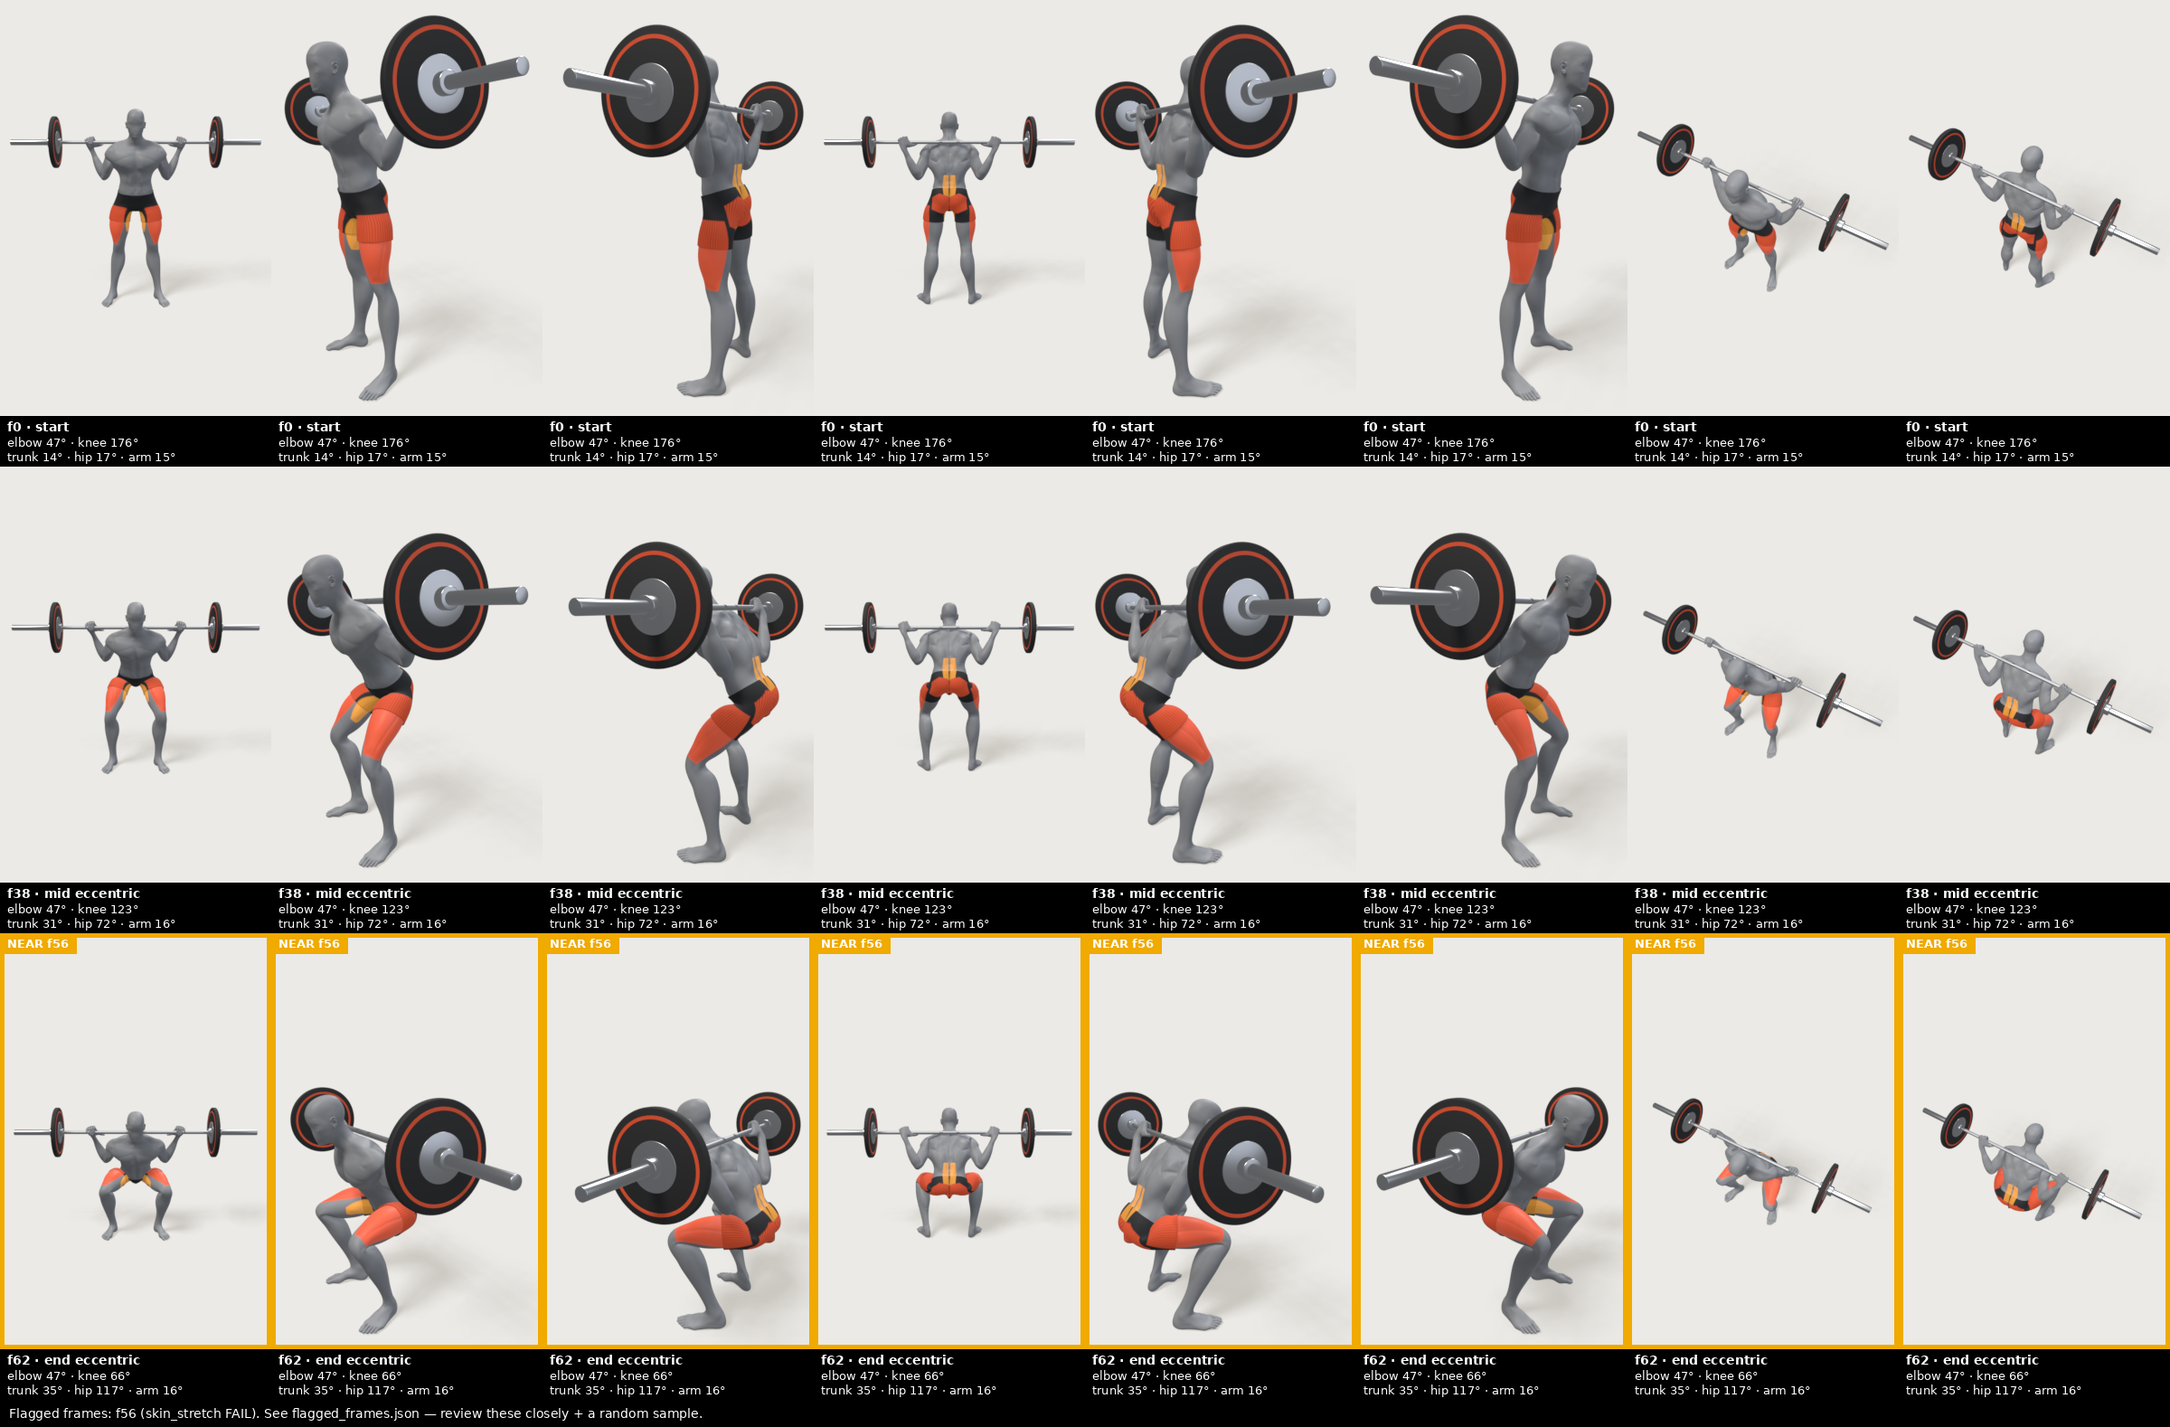
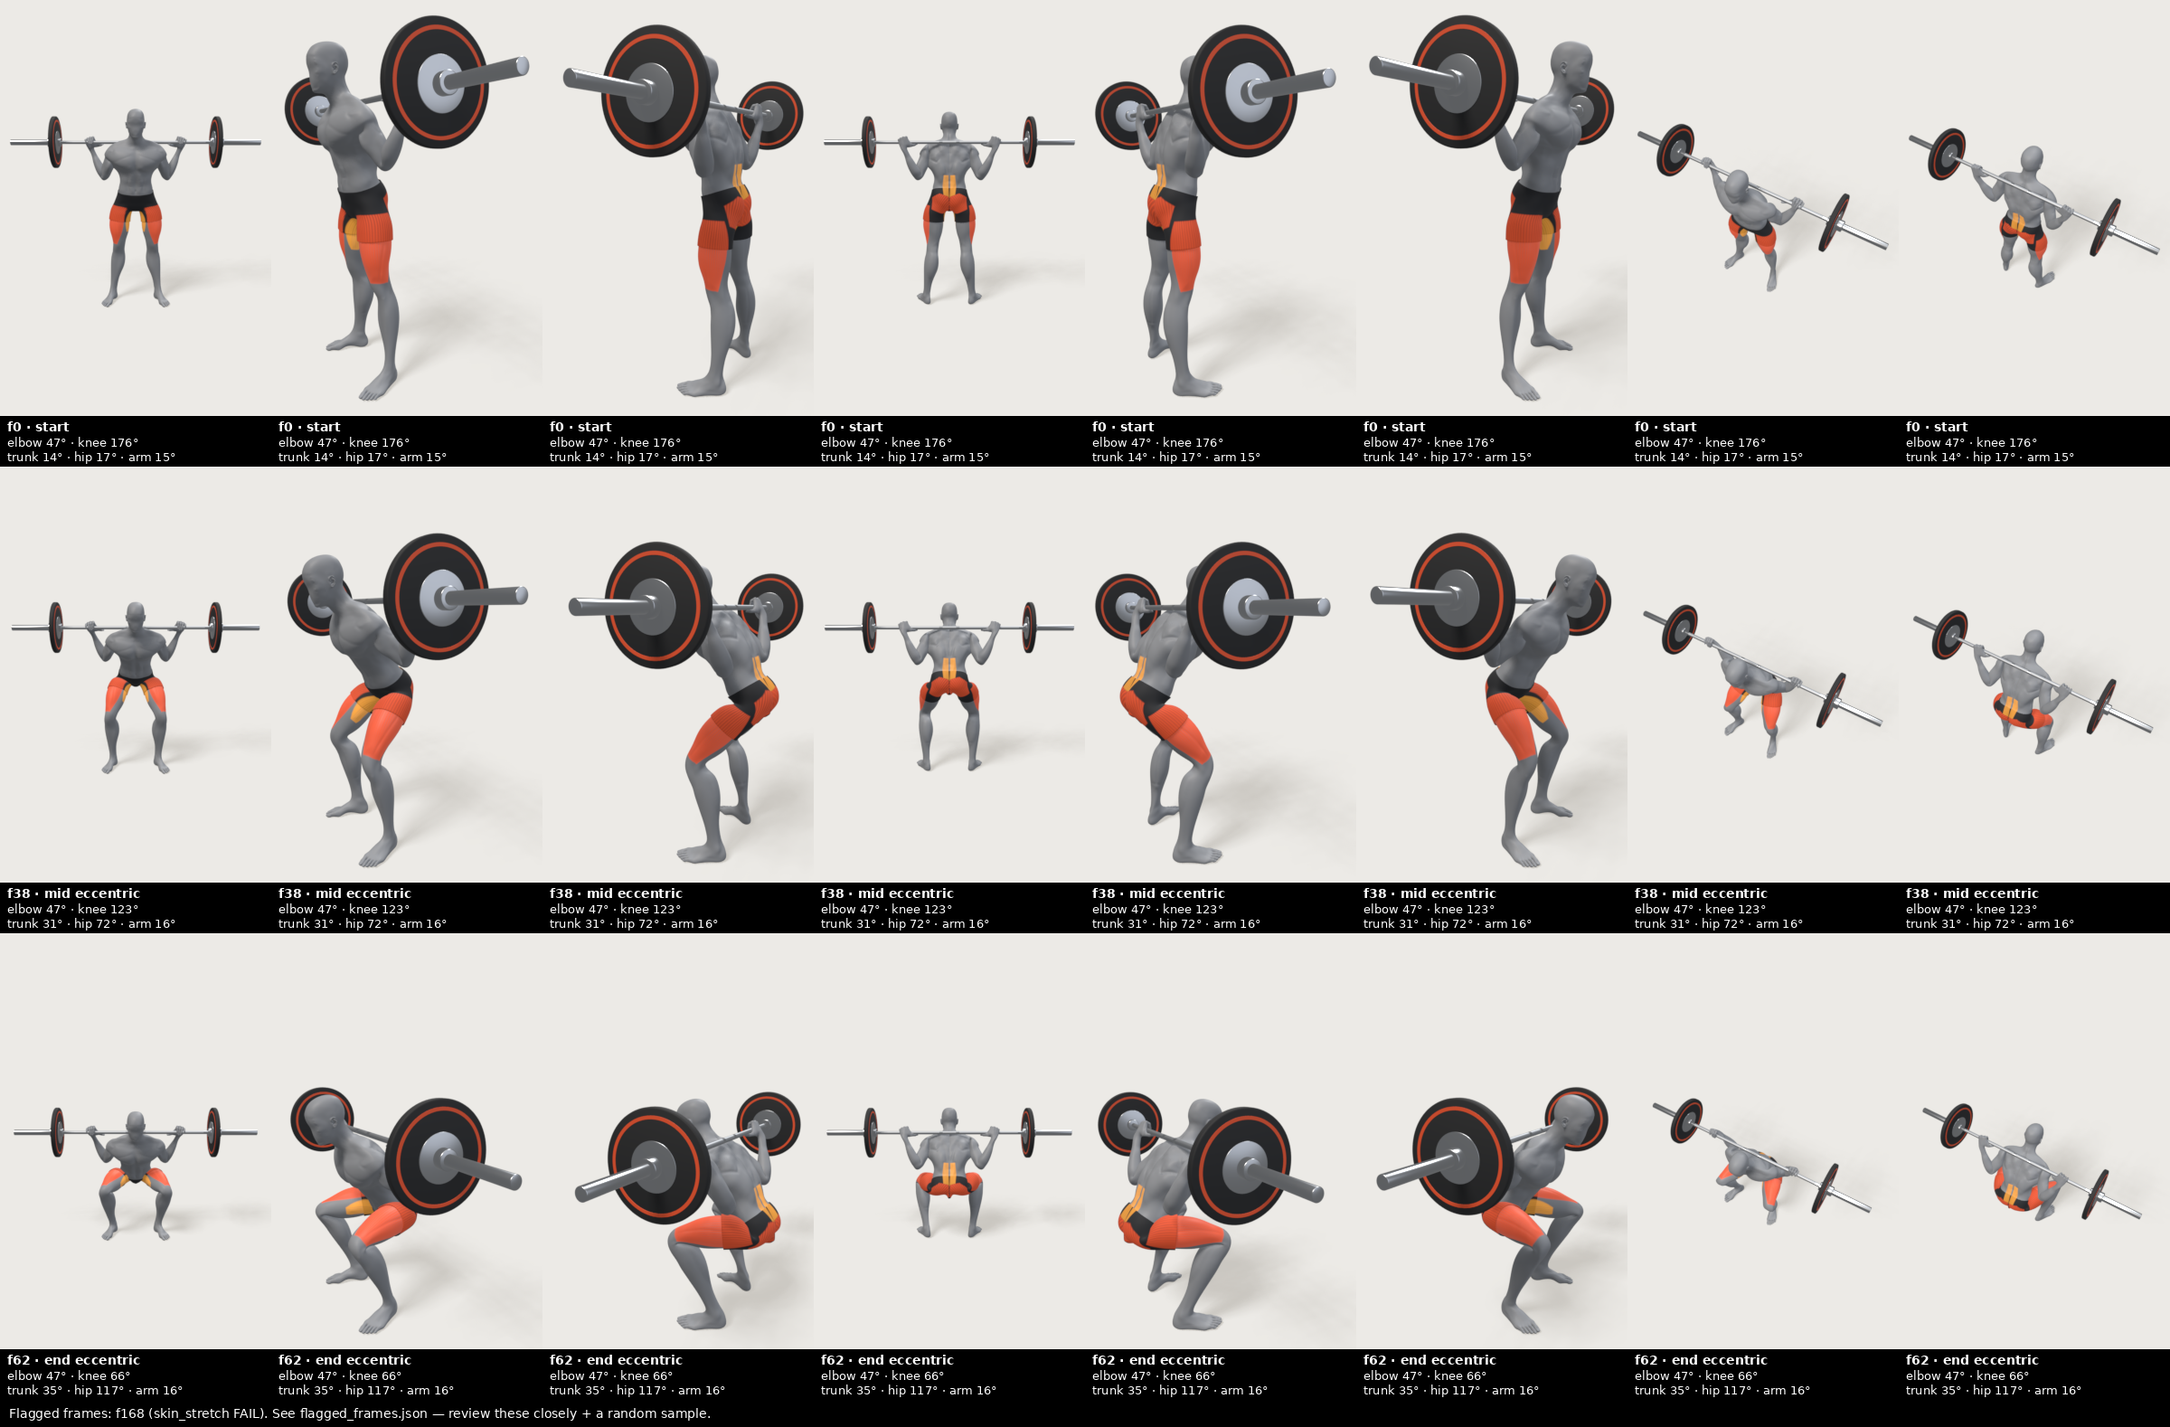
Motion Kit mục 5: kiểm biến dạng da 003 ở tư thế cực + sửa cách đo giãn da (#527)
- validate_motion: đo giãn da thêm khung chậu thấp nhất (đáy squat), ghi số từng khung vào detail; SỬA lỗi đo: tắt Subdivision khi lấy mẫu (đo mesh gốc như sampling.py) — trước đây đo trên mesh chia mịn 44722 đỉnh bằng chỉ số cạnh mesh gốc 11171 đỉnh nên số sai (squat f56: 3,284 thay vì 3,818 đúng); khôi phục cờ sau khi đo nên kiểm tra xuyên không đổi.
- validate_animation: thêm khung lockout (cuối concentric, f180) vào deformation_frames; checks.py ghi số từng khung (p999/max/volume, số giao nhau) vào detail.
- 4 unit test cho báo cáo từng khung.
- Kết quả đo (ngưỡng p999 2,6, KHÔNG nới): squat đứng 3,039, đáy rep1 3,818, đáy rep2 3,820 FAIL; bench mọi khung 2,829 FAIL (kể cả lockout), thể tích trong ngưỡng; curl 2,175 PASS. Probe: cạnh giãn nhất ở nếp gấp háng (chậu/đùi, dài gốc 4-10 mm, không suy biến), tối đa 12,2 lần; ngón cái/cổ tay ~5 lần. Da CHƯA sửa (cần sửa rig/trọng số) — 2 dòng sổ lỗi.
- Render lại sheet squat theo khung flag mới (f168).

Changed region(s): [[0.0, 0.9316, 1.0, 0.9937], [0.0, 0.6521, 1.0, 0.6831]]

diff --git a/artifacts/exercise-visual-system/pipeline/validate_motion.py b/artifacts/exercise-visual-system/pipeline/validate_motion.py
@@ -78,13 +78,25 @@ def main() -> None:
             feet[k].append(list(mw @ rig.pose.bones[k].head))
     j = {k: np.array(v) for k, v in joints.items()}
 
-    # Skin stretch at start, quarter, half (mesh evaluation is slow).
+    # Skin stretch at start, quarter, half, and the deepest pelvis frame
+    # (the extreme pose: the squat bottom). Mesh evaluation is slow, so only
+    # these frames are measured; per-frame values go into the record detail.
+    # Measure the skinned BASE mesh, like evs/sampling.py: with Subdivision
+    # on, the evaluated mesh has more vertices than the rest mesh (44722 vs
+    # 11171 on character 003), so rest edge indices do not address the same
+    # vertices (14/11 probe: planted feet showed up among the worst edges).
+    # The flags are restored right after sampling so the penetration check
+    # below still sees the subdivided surface.
+    low = int(np.argmin(j["pelvis"][:, 2]))
+    subsurf = [(m, m.show_viewport) for m in body.modifiers if m.type == "SUBSURF"]
+    for m, _ in subsurf:
+        m.show_viewport = False
     rest = body.data
     edges = np.array([e.vertices[:] for e in rest.edges])
     co0 = np.array([v.co[:] for v in rest.vertices])
     rl = np.linalg.norm(co0[edges[:, 0]] - co0[edges[:, 1]], axis=1)
     stretch = []
-    for f in (frames[0], frames[len(frames) // 4], frames[len(frames) // 2]):
+    for f in sorted({frames[0], frames[len(frames) // 4], frames[len(frames) // 2], frames[low]}):
         scene.frame_set(f)
         ev = body.evaluated_get(bpy.context.evaluated_depsgraph_get())
         me = ev.to_mesh()
@@ -93,6 +105,9 @@ def main() -> None:
         r = np.linalg.norm(co[edges[:, 0]] - co[edges[:, 1]], axis=1) / rl
         stretch.append((float(np.percentile(r, 99.9)), f))
     worst_stretch = max(stretch)
+    stretch_detail = "p99.9 edge stretch per frame: " + ", ".join(f"f{f} {v:.3f}" for v, f in sorted(stretch, key=lambda t: t[1]))
+    for m, visible in subsurf:
+        m.show_viewport = visible
 
     # Implement inside the skin (bar through the neck/traps, dumbbell through
     # the thigh): body vertices behind the nearest implement face, at the
@@ -101,7 +116,6 @@ def main() -> None:
     from mathutils.bvhtree import BVHTree
     ids = [e["id"].capitalize() for e in ex.get("equipment", []) if not any(k in e["id"] for k in ("bench", "rack", "machine"))]
     implements = [o for o in scene.objects if o.type == "MESH" and any(o.name.startswith(i) for i in ids)]
-    low = int(np.argmin(j["pelvis"][:, 2]))
     depths = {o.name: [] for o in implements}
     for f in sorted({stretch_f for _s, stretch_f in stretch} | {frames[low]}):
         scene.frame_set(f)
@@ -142,7 +156,7 @@ def main() -> None:
         Q.penetration(depths, prof["max_implement_penetration_m"]) if depths else Q.rec("implement_penetration", "C", "Implements do not pass through the body", Q.NOT_TESTED),
         *Q.posture(j, prof),
         Q.rec("skin_stretch", "C", "Skin stretch stays within limits", Q.PASS if worst_stretch[0] <= prof["max_p999_edge_stretch"] else Q.FAIL,
-              round(worst_stretch[0], 3), prof["max_p999_edge_stretch"], {"frame": worst_stretch[1]}, "p99.9 edge stretch"),
+              round(worst_stretch[0], 3), prof["max_p999_edge_stretch"], {"frame": worst_stretch[1]}, stretch_detail),
     ]
     movement = ex.get("movement", {})
     jr = j

diff --git a/artifacts/exercise-visual-system/tests/test_validation_checks.py b/artifacts/exercise-visual-system/tests/test_validation_checks.py
@@ -1,0 +1,67 @@
+"""Unit tests for the per-frame deformation reporting in
+evs/validation/checks.py (skin_deformation / mesh_self_intersection).
+
+No Blender.
+
+    cd artifacts/exercise-visual-system && python3 -m unittest discover -s tests -v
+"""
+
+from __future__ import annotations
+
+import sys
+import unittest
+from pathlib import Path
+
+ROOT = Path(__file__).resolve().parent.parent
+sys.path.insert(0, str(ROOT))
+
+from evs.validation import checks  # noqa: E402
+
+FACTS = {"bones": {"pelvis": {"parent": None, "length_m": 0.1}}, "vertices": 10}
+PROFILE = {"max_p999_edge_stretch": 2.6, "max_volume_change": 0.08, "max_new_self_intersections": 60}
+
+
+def _samples(deformation: dict) -> dict:
+    return {"constants": {"deform_bones": ["pelvis"], "parents": {"pelvis": None},
+                          "rest_bone_length_m": {"pelvis": 0.1}, "body_vertices": 10},
+            "bone_length_error_m": [0.0], "deformation": deformation}
+
+
+def _by_id(records: list[dict], cid: str) -> dict:
+    return next(r for r in records if r["id"] == cid)
+
+
+class DeformationReportTests(unittest.TestCase):
+    def test_skin_deformation_detail_lists_per_frame_values(self):
+        samples = _samples({
+            "0": {"p999_edge_stretch": 1.02, "max_edge_stretch": 1.31, "volume_change": 0.0012, "new_self_intersections": 3},
+            "120": {"p999_edge_stretch": 2.829, "max_edge_stretch": 5.12, "volume_change": 0.0501, "new_self_intersections": 403},
+        })
+        rec = _by_id(checks.character_checks(samples, FACTS, PROFILE, None), "skin_deformation")
+        self.assertEqual(rec["status"], "FAIL")
+        self.assertIn("f0 p999 1.020 max 1.310 vol +0.0012", rec["detail"])
+        self.assertIn("f120 p999 2.829 max 5.120 vol +0.0501", rec["detail"])
+
+    def test_skin_deformation_passes_within_limits(self):
+        samples = _samples({
+            "0": {"p999_edge_stretch": 1.02, "max_edge_stretch": 1.31, "volume_change": 0.0012, "new_self_intersections": 3},
+        })
+        rec = _by_id(checks.character_checks(samples, FACTS, PROFILE, None), "skin_deformation")
+        self.assertEqual(rec["status"], "PASS")
+
+    def test_self_intersection_detail_lists_per_frame_counts(self):
+        samples = _samples({
+            "0": {"p999_edge_stretch": 1.02, "max_edge_stretch": 1.31, "volume_change": 0.0012, "new_self_intersections": 3},
+            "120": {"p999_edge_stretch": 2.829, "max_edge_stretch": 5.12, "volume_change": 0.0501, "new_self_intersections": 403},
+        })
+        rec = _by_id(checks.character_checks(samples, FACTS, PROFILE, None), "mesh_self_intersection")
+        self.assertEqual(rec["status"], "REQUIRES_MANUAL_REVIEW")
+        self.assertIn("f0 3; f120 403", rec["detail"])
+
+    def test_deformation_not_tested_without_samples(self):
+        rec = _by_id(checks.character_checks(_samples({}), FACTS, PROFILE, None), "skin_deformation")
+        self.assertEqual(rec["status"], "NOT_TESTED")
+
+
+if __name__ == "__main__":
+    unittest.main()

diff --git a/artifacts/exercise-visual-system/evs/validation/checks.py b/artifacts/exercise-visual-system/evs/validation/checks.py
@@ -94,15 +94,24 @@ def character_checks(samples: dict, facts: dict, profile: dict, rig_test: dict |
         p999 = max(d["p999_edge_stretch"] for d in deformation.values())
         volume = max(abs(d["volume_change"]) for d in deformation.values())
         ok = p999 <= profile["max_p999_edge_stretch"] and volume <= profile["max_volume_change"]
+        ordered = sorted(deformation.items(), key=lambda kv: int(kv[0]))
+
+        def _per_frame(d: dict) -> str:
+            text = f"p999 {d['p999_edge_stretch']:.3f}"
+            if "max_edge_stretch" in d:
+                text += f" max {d['max_edge_stretch']:.3f}"
+            return text + f" vol {d['volume_change']:+.4f}"
+
         out.append(record("skin_deformation", "character", "Skin stretch and body volume stay within limits in the exercise poses",
                           PASS if ok else FAIL, measured={"p99.9_edge_stretch": _r(p999, 3), "volume_change": _r(volume, 4)},
                           limit={"p99.9_edge_stretch": profile["max_p999_edge_stretch"], "volume_change": profile["max_volume_change"]},
-                          detail=f"measured at frames {sorted(int(f) for f in deformation)}"))
+                          detail="per frame: " + "; ".join(f"f{int(k)} {_per_frame(d)}" for k, d in ordered)))
         crossing = max(d["new_self_intersections"] for d in deformation.values())
         out.append(record("mesh_self_intersection", "character", "Skin passing through skin (beyond the rest pose)",
                           PASS if crossing <= profile["max_new_self_intersections"] else REQUIRES_MANUAL_REVIEW,
                           measured=crossing, limit=profile["max_new_self_intersections"], unit="face pairs",
-                          detail="Skin folding onto skin at a bent elbow or inside a closed fist is contact, not a defect; a count above the limit needs eyes."))
+                          detail="Skin folding onto skin at a bent elbow or inside a closed fist is contact, not a defect; a count above the limit needs eyes. "
+                                 "New intersections per frame: " + "; ".join(f"f{int(k)} {d['new_self_intersections']}" for k, d in ordered)))
     else:
         out.append(record("skin_deformation", "character", "Skin stretch and body volume in the exercise poses", NOT_TESTED))
         out.append(record("mesh_self_intersection", "character", "Skin passing through skin", NOT_TESTED))

diff --git a/artifacts/exercise-visual-system/pipeline/validate_animation.py b/artifacts/exercise-visual-system/pipeline/validate_animation.py
@@ -48,8 +48,11 @@ def sample_with_blender(exercise_path, exercise) -> tuple[dict, dict]:
         return int(round(seconds * fps))
 
     ecc, con = phase["eccentric"], phase["concentric"]
+    # Extreme poses: setup, eccentric start/mid/end (bottom), concentric mid
+    # and concentric end (lockout). The lockout frame was added 14/11: the
+    # old set never measured the arms-extended pose.
     deformation_frames = sorted({0, frame(ecc["start_s"]), frame(0.5 * (ecc["start_s"] + ecc["end_s"])), frame(ecc["end_s"]),
-                                 frame(0.5 * (con["start_s"] + con["end_s"]))})
+                                 frame(0.5 * (con["start_s"] + con["end_s"])), frame(con["end_s"])})
     inventory = sampling.scene_inventory(scene, exercise)
     samples = sampling.sample_scene(scene, rig, body, bar, exercise, deformation_frames)
     return samples, inventory

diff --git a/docs/exercise-visual-system/MOTION_KIT_LESSONS.md b/docs/exercise-visual-system/MOTION_KIT_LESSONS.md
@@ -35,4 +35,6 @@
 | 14/11 | App: mặt nhân vật thành một mảng phẳng, viền răng cưa | Miếng vá mặt (không mặt) được dựng không có UV: cả 469 mặt dồn về một điểm UV, nên RealityKit không có tiếp tuyến và đổ bóng phẳng. Bản dựng Blender trông bình thường nên không thấy | `sculpt_muscles.py` cấp cho miếng vá một ô UV riêng ở vùng trống của atlas (chiếu phẳng mặt trước); normal map phẳng ở đó | Đọc lại USDZ đã xuất, đếm mặt có UV suy biến (phải bằng 0). Soi trong app, không chỉ trong Blender |
 | 14/11 | Curl: đầu trong của tạ đơn đâm vào hông 7,3 cm ở đáy | Góc dang tay 6° đặt cứng; nhân vật 003 hông rộng hơn | Dang 12°, đưa tạ hơi ra trước đùi 6° | `implement_penetration` (QA) + tờ soi xoay vòng |
 | 14/11 | Rãnh cơ bị răng cưa như đường khâu (cột sống, sau đùi) | Đường viền lấy theo từng texel | Làm mượt trường độ cao khoảng 2 mm trước khi tạo normal map | Soi ảnh sau lưng, phóng to |
+| 14/11 | `validate_motion` đo độ giãn da trên mesh đã chia mịn (44722 đỉnh) nhưng dùng chỉ số cạnh của mesh gốc (11171 đỉnh): số đo sai và không khớp `sampling.py` (squat f56: 3,284 so với 3,818 đúng); bàn chân đứng yên cũng lọt vào nhóm giãn nhất | `Subdivision` để mở khi lấy mesh đánh giá; chỉ số đỉnh của mesh chia mịn không khớp mesh gốc | Tắt `show_viewport` của `SUBSURF` quanh vòng lấy mẫu giãn da rồi khôi phục (đo mesh gốc như `sampling.py`); kiểm tra xuyên vẫn thấy bề mặt chia mịn như cũ | So sánh số đo với probe độc lập ở cùng khung; hai validator phải đo cùng một cách |
+| 14/11 | Da háng nhân vật 003 giãn vượt ngưỡng ở MỌI tư thế đo (p99.9 > 2,6): squat đứng 3,039, đáy 3,818–3,820; bench mọi khung 2,829; cạnh giãn nhất 12,2 lần ở nếp gấp háng, độ dài gốc 4–10 mm (không phải cạnh suy biến). Ngón cái/cổ tay cầm thanh giãn ~5 lần (thứ yếu) | Trọng số da ở vùng chuyển tiếp chậu–đùi (nếp gấp háng) chịu gập hông kém; vùng lỗi cũ trên rig cũ vẫn còn trên rig 003 | CHƯA SỬA DA, không nới ngưỡng. Kiểm tra mở rộng: đo thêm khung chậu thấp nhất (template) và khung lockout (bench), ghi số từng khung vào báo cáo. Cần sửa rig/trọng số hoặc shape hiệu chỉnh ở nếp háng — việc riêng, chưa làm | `skin_stretch`/`skin_deformation` ở tư thế cực + probe vị trí cạnh giãn nhất theo nhóm đỉnh |
 

diff --git a/docs/exercise-visual-system/MOTION_KIT.md b/docs/exercise-visual-system/MOTION_KIT.md
@@ -61,7 +61,7 @@ Dữ liệu tạo ra là **tài sản của ASCND**. Chính sách nguồn ở `O
 | Bộ giải họ đẩy ngang (bench press) | `bench-press/animate_bench_press.py` | chạy; cần tách thành bộ giải chung |
 | Trình xem 3D (zoom, mẹo, ẩn cơ phụ) | `apps/ios/.../ExerciseDemo3DView.swift` | xong; đọc USDZ, góc máy, chú thích theo từng bài |
 | **Bộ tạo chung theo template** | `motionlab/` (timing min-jerk, primitives, families: `curl`, `squat`), `pipeline/generate_exercise.py` | xong cho 2 họ; dumbbell-curl QA 12/12, back-squat 10/11 |
-| **Bộ kiểm chung 4 tầng (A–D), lỗi chỉ đúng khung/khớp** | `evs/motion_qa.py`, `pipeline/validate_motion.py` | xong |
+| **Bộ kiểm chung 4 tầng (A–D), lỗi chỉ đúng khung/khớp** | `evs/motion_qa.py`, `pipeline/validate_motion.py` | xong; giãn da đo trên mesh gốc (tắt `Subdivision` khi lấy mẫu) + thêm khung chậu thấp nhất, ghi số từng khung; bench thêm khung lockout (14/11) |
 | **Giải theo mục tiêu** | `pipeline/solve_targets.py`, `pipeline/measure_animation.py` | xong; bench press: khuỷu 104° / dang vai 60° sau 24 lần thử |
 
 ## Đã học từ dữ liệu (bench press)
